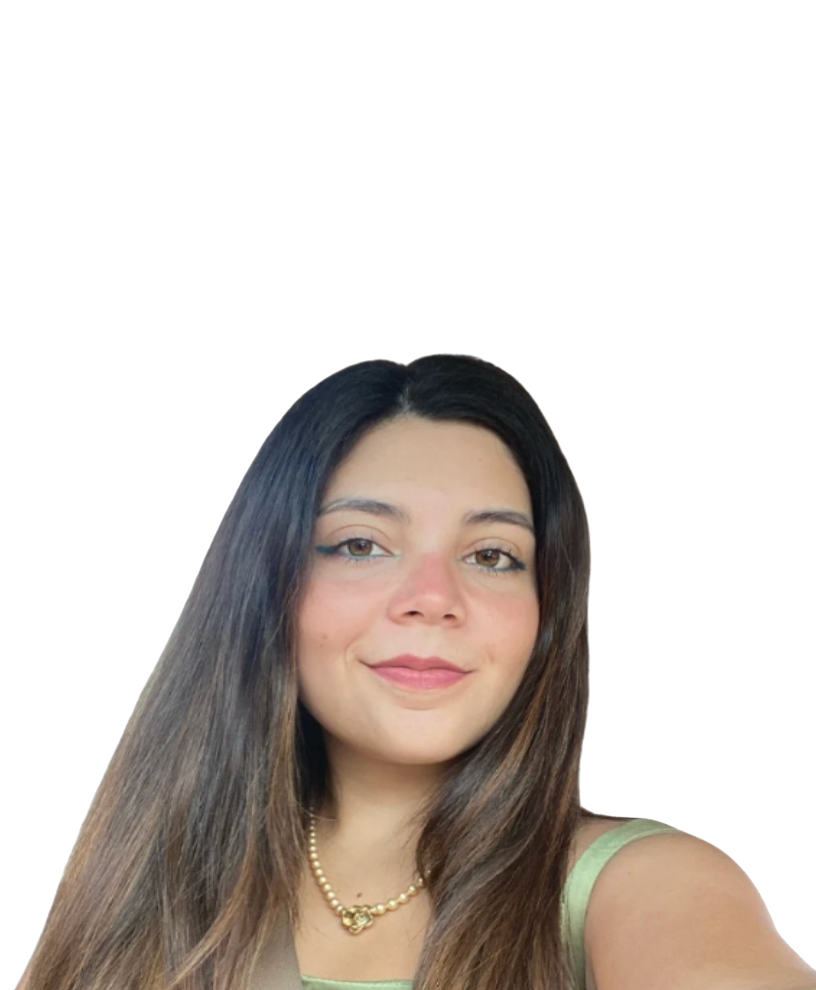
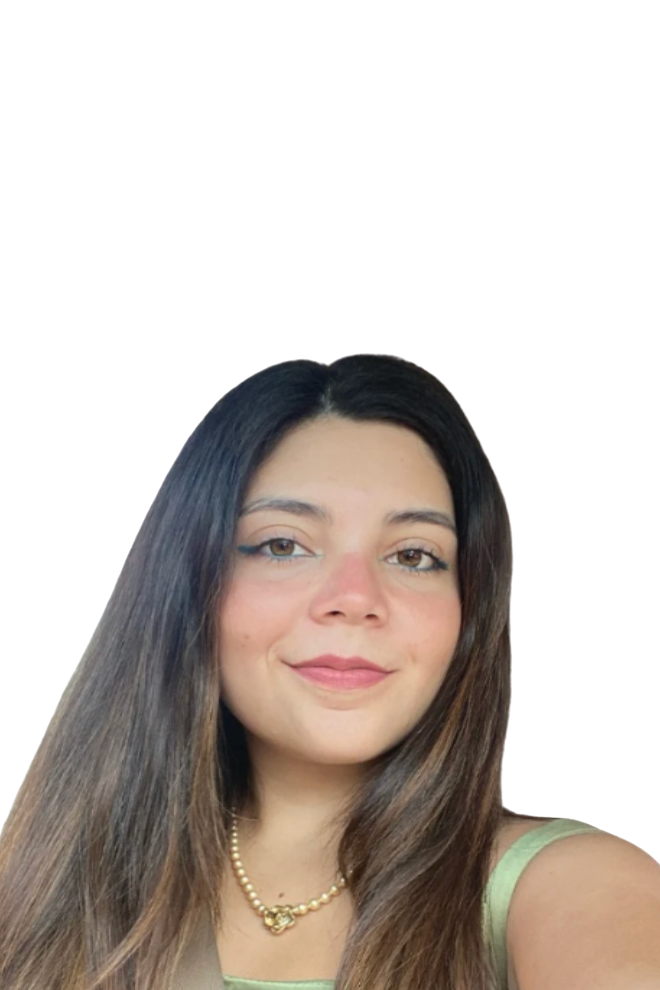
fixed cosas

diff --git a/witcon-frontend/src/sections/teams.tsx b/witcon-frontend/src/sections/teams.tsx
@@ -44,8 +44,9 @@ const WiCS: Team[] = [
     {
         name: "Sruti Simran",
         position: "WiTCON Chair",
-        image:"/eboard/sruti.png",
-        panelClassName: "panel-sruti",
+        image:"/eboard/sruti (1).png",
+        panelClassName: "panel-fix",
+
 
     },
 
@@ -186,7 +187,7 @@ const WiCS: Team[] = [
   name: "Alessandra Ortega",
   position: "Alumni Relations",
   image:"/eboard/ale.png",
-  panelClassName: "panel-ale",
+  panelClassName: "panel-fix",
 },
 
 ]
@@ -256,9 +257,7 @@ export default function Teams() {
             background-position: center;
             }
 
-            .panel-ale{
-            background-position: top -60px center;
-            }
+            
 
             .panel-alessandra{
             background-position: top -10px center;
@@ -269,12 +268,10 @@ export default function Teams() {
             }
 
             .panel-gabriela{
-              background-position: bottom -80px center;
+              background-position: bottom 60% center;
             }
 
-            .panel-sruti{
-              background-position: bottom -10px center;
-            }
+            
 
             
   

diff --git a/witcon-frontend/src/index.css b/witcon-frontend/src/index.css
@@ -11,8 +11,8 @@
   font-weight: 400;
   font-display: swap;
   src: url("/fonts/BukhariScript-Regular.ttf") format("truetype");
-}
 
+}
 @theme {
   --font-actor: "Actor", sans-serif;
   --font-bukhari: "Bukhari", sans-serif;
@@ -33,4 +33,21 @@
   --color-secondary-mint: #C0E5E5;
   
   --color-tertiary-yellow: #F9ECCC;
+}
+
+@layer utilities{
+  .comic-image {
+    border: 4px solid var(--color-primary-pink);
+    box-shadow: 6px 6px 0px var(--color-primary-pink);
+    transform: rotate(-2deg);
+  }
+
+  .comic-image-pop {
+    transition: 0.2 ease;
+  }
+
+  .comic-image-pop:hover {
+    transform: rotate(-2deg) translate(-3px, -3px);
+    box-shadow: 8px 8px 0px var(--color-primary-pink);
+  }
 }

diff --git a/witcon-frontend/src/sections/Faq.tsx b/witcon-frontend/src/sections/Faq.tsx
@@ -161,11 +161,11 @@ export default function Faq() {
           {faqs.map((faq, index) => (
             <div
               key={index}
-              className={`w-full transition rounded-xl p-5 cursor-pointer
+              className={`w-full transition p-5 cursor-pointer border-3 border-primary-pink
                     ${
                     openIndex === index
-                        ? "bg-tertiary-yellow"
-                        : "bg-secondary-yellow hover:bg-tertiary-yellow"
+                        ? "bg-secondary-pink"
+                        : "bg-secondary-pink hover:bg-secondary-yellow"
                     }
                 `}
               onClick={() => toggleFAQ(index)}

diff --git a/witcon-frontend/src/pages/Home.tsx b/witcon-frontend/src/pages/Home.tsx
@@ -4,6 +4,7 @@ import WhatIsWiTCON from '../sections/WhatIsWiTCON';
 import Testimonials from '../sections/Testimonials';
 import Teams from '../sections/teams';
 import Carousel from '../components/Carousel';
+import Faq from '../sections/Faq';
 
 export default function Home() {
     return (
@@ -13,6 +14,7 @@ export default function Home() {
         <WhatIsWiTCON/>
         <Carousel />
         <Testimonials />
+        <Faq />
         <Teams />
         </>
     )

diff --git a/witcon-frontend/src/sections/Hero.tsx b/witcon-frontend/src/sections/Hero.tsx
@@ -36,7 +36,7 @@ export default function Hero() {
       <section className="grid grid-cols-1 lg:grid-cols-2 items-start gap-x-10 sm:pt-2 md:pt-4 lg:pt-6 gap-y-8 mt-5">
         <div>
           <img
-            className="relative object-cover rounded-3xl max-h-96 mx-auto"
+            className="relative object-cover max-h-96 mx-auto comic-image comic-image-pop"
             src={hero}
             alt="WiTCON 2025 volunteer crew"
           />

diff --git a/witcon-frontend/src/sections/WhatIsWiTCON.tsx b/witcon-frontend/src/sections/WhatIsWiTCON.tsx
@@ -25,7 +25,7 @@ export default function WhatIsWiTCON() {
       {/* Image - order 2 on mobile */}
       <div className="order-2 md:order-none">
         <img
-          className="relative object-cover rounded-3xl"
+          className="relative object-cover "
           src={witcon_group}
           alt="WiTCON 2025 volunteer crew"
         />
